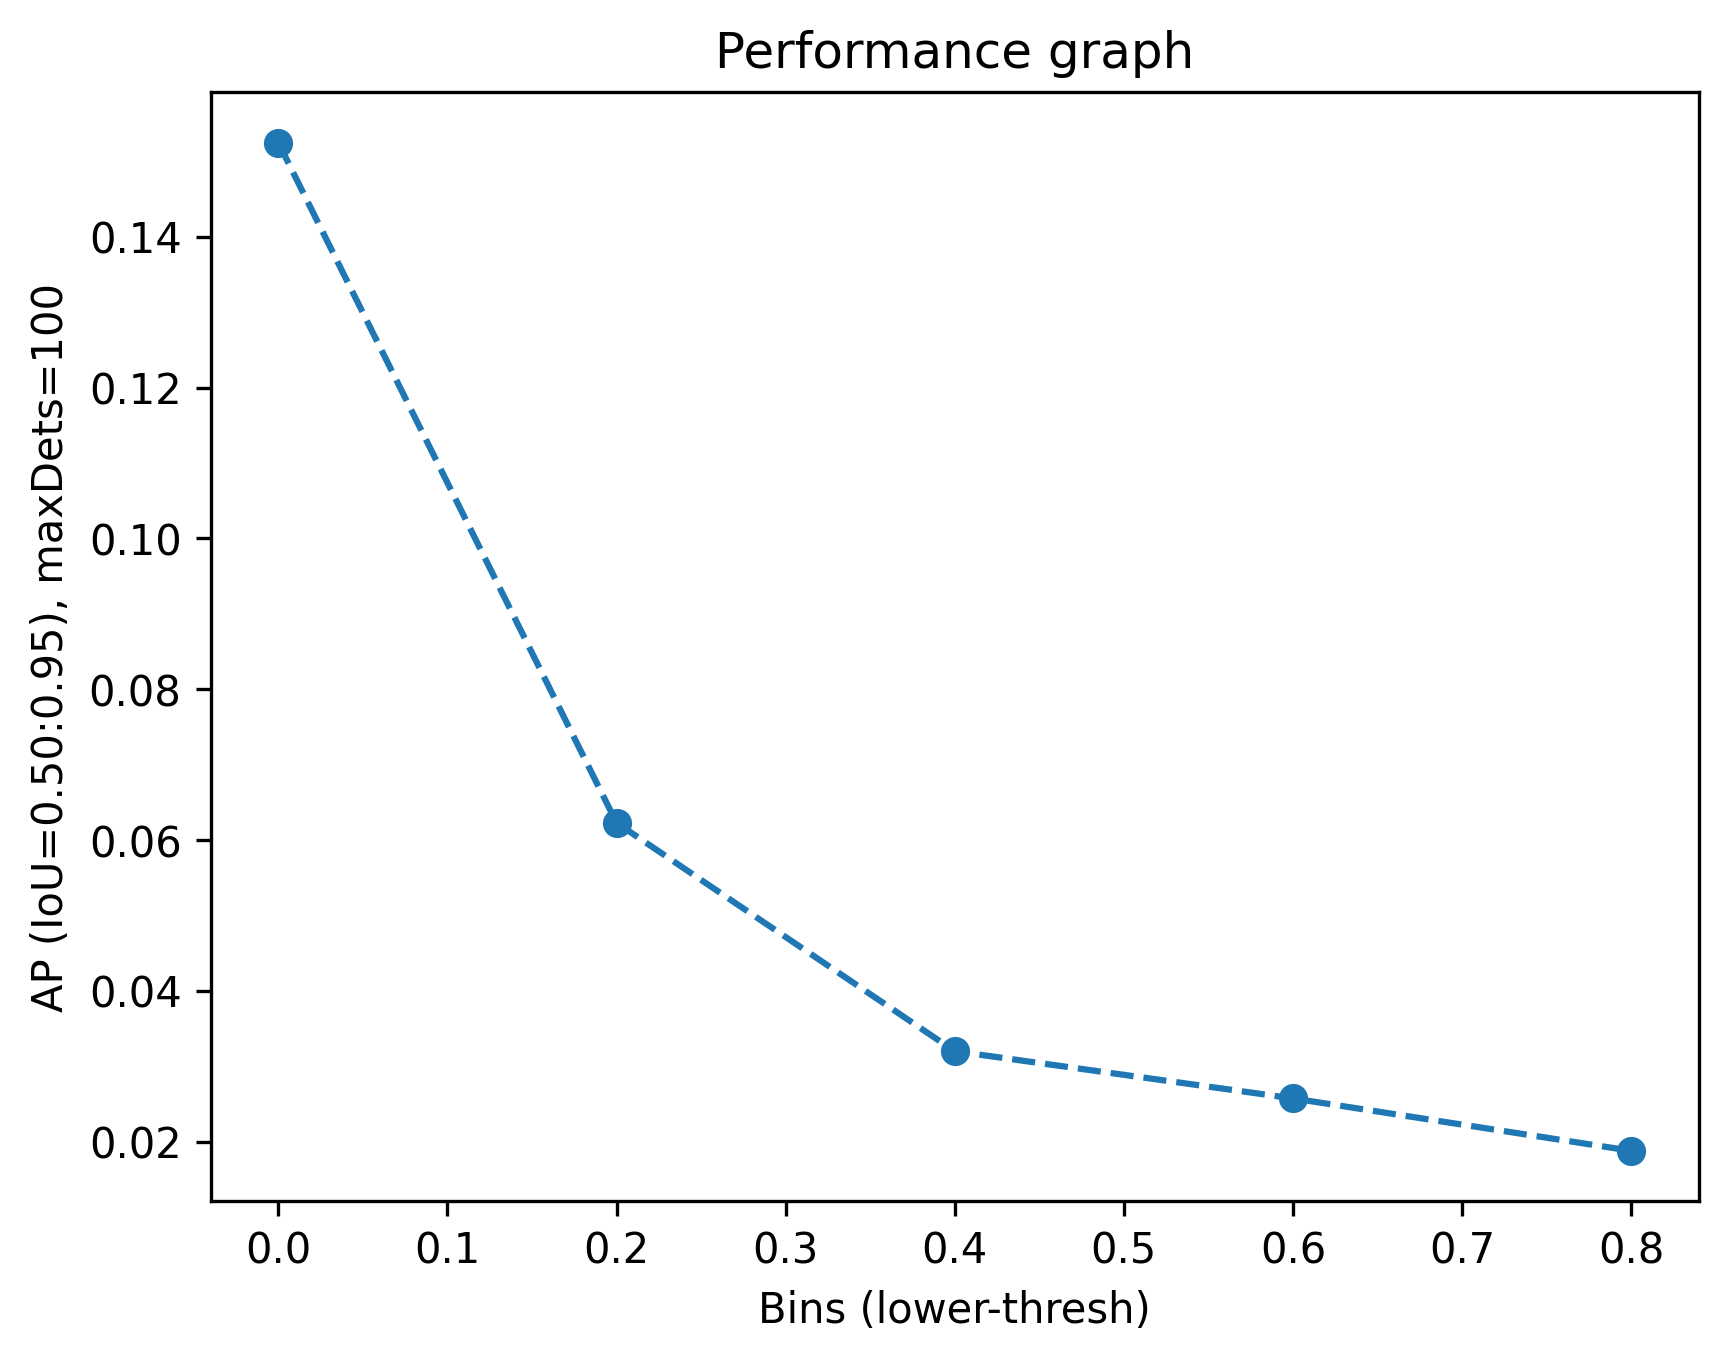
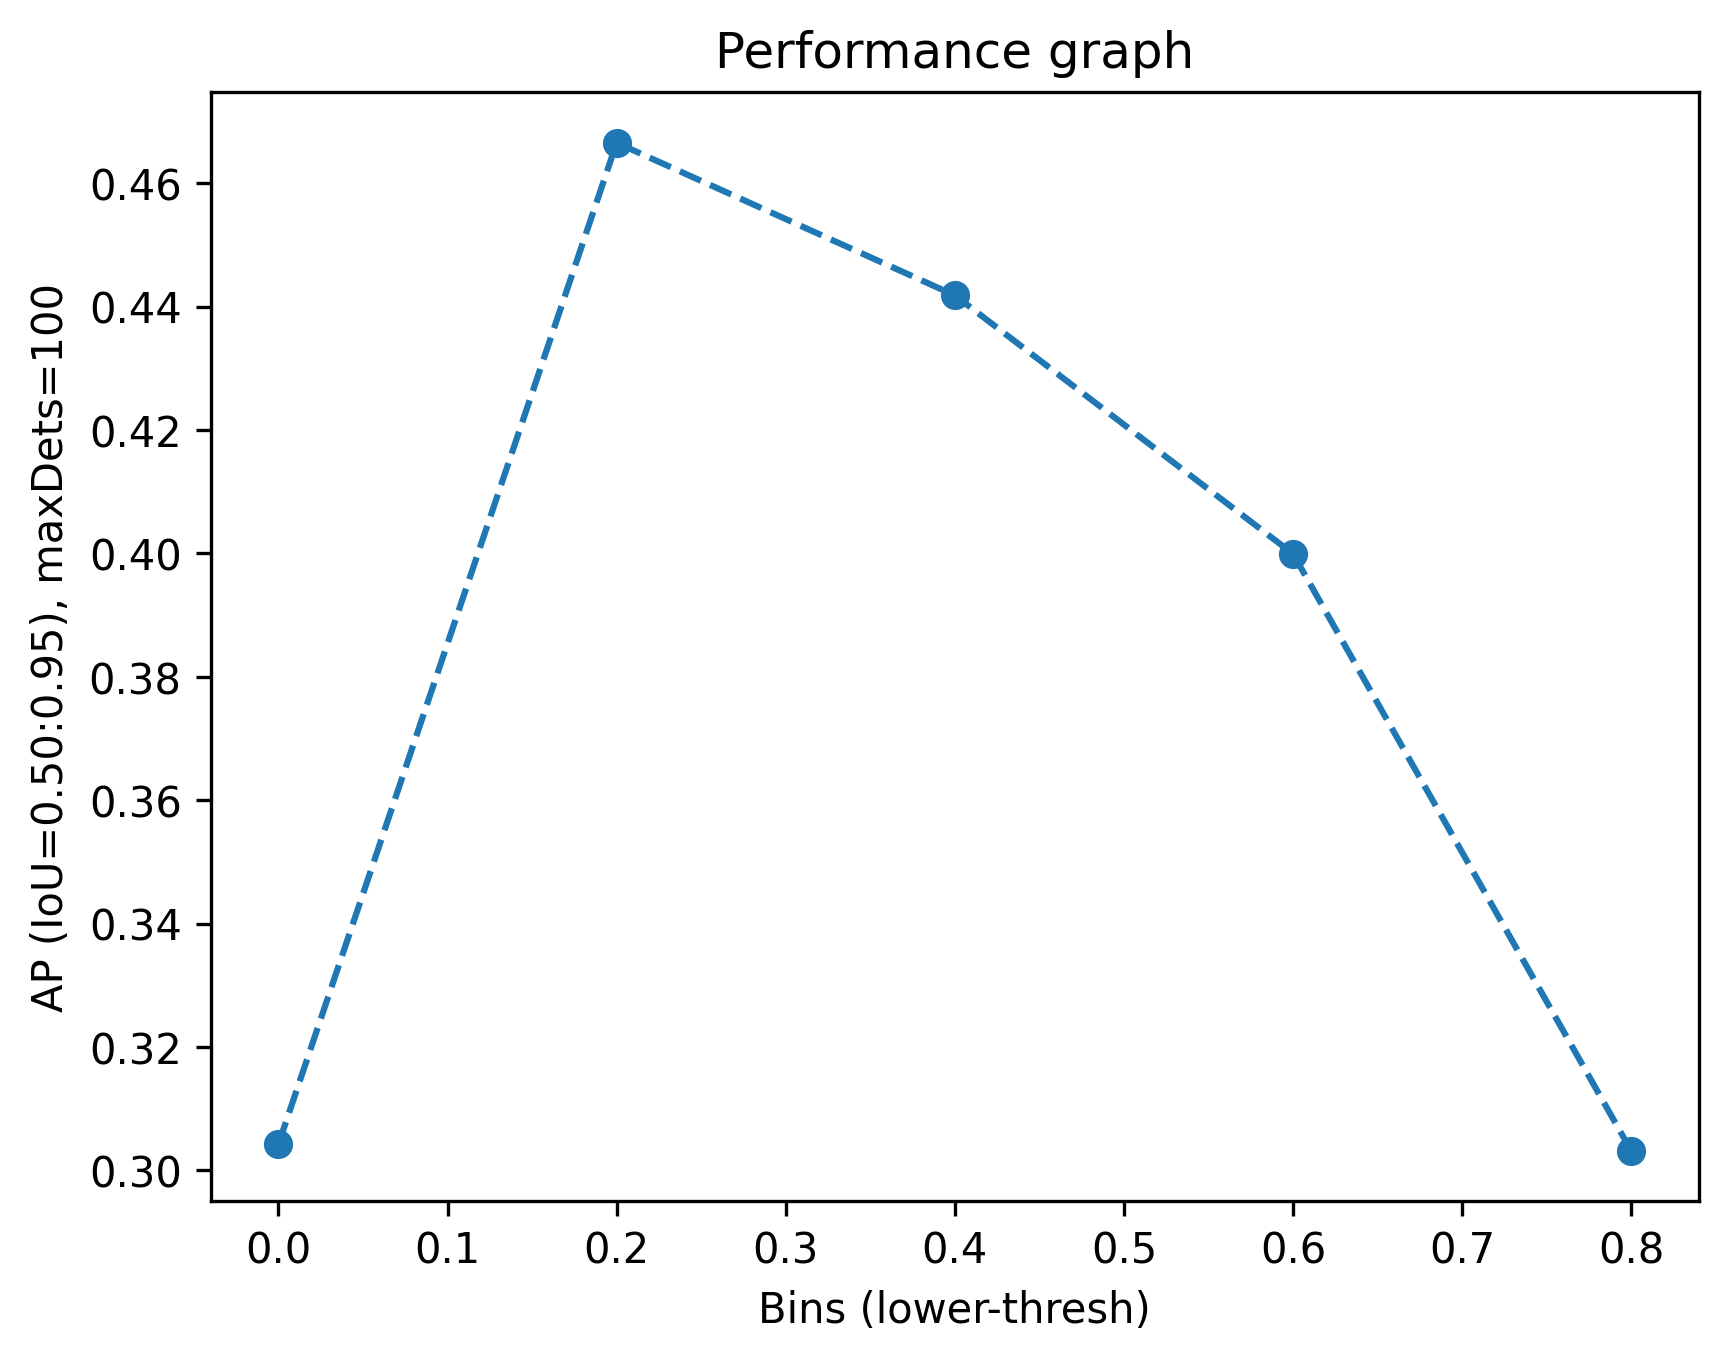
Working annotation normalization eval

diff --git a/EXPERIMENTS/complete_bin_evaluation_pipeline/sequence_runner_bin_complete_paradigm.py b/EXPERIMENTS/complete_bin_evaluation_pipeline/sequence_runner_bin_complete_paradigm.py
@@ -44,6 +44,8 @@ class flowRunner:
     _GENERATED_RESULTS_FILE_NAME = "coco_results_original.json"
     _GENERATED_RESULTS_TXT_FILE_NAME = "coco_results_original.txt"
     _GENERATED_RESULTS_PTH_FILE_NAME = "coco_results_original.pth"
+    _GENERATED_RESULTS_BBOX_FILE_NAME = "bbox_original.json"
+    _GENERATED_RESULTS_SEGM_FILE_NAME = "segm_original.json"
     _GENERATED_HIGH_LVL_CSV_RESULTS_FILE_NAME = "eval_across_bins.csv"
     _GENERATED_HIGH_LVL_GRAPH_FILE_NAME = "performance_graph.png"
     #This parameter determines whether the script will filter predictions having masks with no Logit score > 0.5
@@ -59,6 +61,8 @@ class flowRunner:
     _GENERATED_SUBSAMPLE_RESULTS_FILE_NAME_TMPL = "coco_results_on_%s.json"
     _GENERATED_SUBSAMPLE_RESULTS_TXT_FILE_NAME_TMPL = "coco_results_on_%s.txt"
     _GENERATED_SUBSAMPLE_RESULTS_PTH_FILE_NAME_TMPL = "coco_results_on_%s.pth"
+    _GENERATED_SUBSAMPLE_RESULTS_BBOX_FILE_NAME_TMPL = "bbox_on_%s.json"
+    _GENERATED_SUBSAMPLE_RESULTS_SEGM_FILE_NAME_TMPL = "segm_on_%s.json"
     _GENERATED_SUBSAMPLE_HIGH_LVL_CSV_RESULTS_FILE_NAME_TMPL = "eval_across_bins_on_%s.csv"
     _GENERATED_SUBSAMPLE_HIGH_LVL_GRAPH_FILE_NAME_TMPL = "performance_graph_on_%s.png"
 
@@ -323,7 +327,9 @@ class flowRunner:
                 #so that we see the AR metric
                 tester_obj.test_model()
                 tester_obj.write_results_to_disk()
-                tester_obj.change_pth_filename("coco_results.pth", flowRunner._GENERATED_RESULTS_PTH_FILE_NAME)
+                tester_obj.change_result_filename("coco_results.pth", flowRunner._GENERATED_RESULTS_PTH_FILE_NAME)
+                tester_obj.change_result_filename("bbox.json", flowRunner._GENERATED_RESULTS_BBOX_FILE_NAME)
+                tester_obj.change_result_filename("segm.json", flowRunner._GENERATED_RESULTS_SEGM_FILE_NAME)
             else: logging.info("Evaluation file exists. Moving to next bin (if any) -->>")
             #--------------------
             #-----------------
@@ -363,6 +369,10 @@ class flowRunner:
                 _GENERATED_SUBSAMPLE_RESULTS_TXT_FILE_NAME_TMPL % str(self.misk_ann_subsample_size)
             misk_results_pth_filename = flowRunner. \
                 _GENERATED_SUBSAMPLE_RESULTS_PTH_FILE_NAME_TMPL % str(self.misk_ann_subsample_size)
+            misk_results_bbox_filename = flowRunner. \
+                _GENERATED_SUBSAMPLE_RESULTS_BBOX_FILE_NAME_TMPL % str(self.misk_ann_subsample_size)
+            misk_results_segm_filename = flowRunner. \
+                _GENERATED_SUBSAMPLE_RESULTS_SEGM_FILE_NAME_TMPL % str(self.misk_ann_subsample_size)
             misk_csv_filename = flowRunner. \
                 _GENERATED_SUBSAMPLE_HIGH_LVL_CSV_RESULTS_FILE_NAME_TMPL % str(self.misk_ann_subsample_size)
             misk_graph_photo_filename = flowRunner. \
@@ -400,7 +410,9 @@ class flowRunner:
                     # so that we see the AR metric
                     tester_obj.test_model()
                     tester_obj.write_results_to_disk()
-                    tester_obj.change_pth_filename("coco_results.pth", misk_results_pth_filename)
+                    tester_obj.change_result_filename("coco_results.pth", misk_results_pth_filename)
+                    tester_obj.change_result_filename("bbox.json", misk_results_bbox_filename)
+                    tester_obj.change_result_filename("segm.json", misk_results_segm_filename)
                 else:
                     logging.info("Misk evaluation file exists. Moving to next bin (if any) -->>")
 
@@ -419,7 +431,7 @@ class flowRunner:
             writer = csv.writer(csv_file)
 
             # Write the header row to the CSV file
-            writer.writerow(["lower_bin_thresh", "upper_bin_thresh", "bin_prefix", "AP"])
+            writer.writerow(["lower_bin_thresh", "upper_bin_thresh", "bin_prefix", "AR"])
             for folder in self.evaluation_folders:
                 folder_name = os.path.basename(os.path.normpath(folder))
                 #Extract the bin from the folder name
@@ -432,7 +444,7 @@ class flowRunner:
                 try:
                     with open(potential_eval_storage_file) as json_results_file:
                         json_data = json.load(json_results_file)
-                    avg_precision = json_data["bbox"]["AP"]
+                    avg_precision = json_data["bbox"]["AR"]
                     to_store_in_csv = [str(lower_threshold), str(upper_threshold),
                                        str(lower_threshold)+"-"+str(upper_threshold),
                                        avg_precision]

diff --git a/EXPERIMENTS/complete_bin_evaluation_pipeline/objects/tester_obj.py b/EXPERIMENTS/complete_bin_evaluation_pipeline/objects/tester_obj.py
@@ -124,8 +124,8 @@ class testerObj:
             self.results.append(result)
         if is_main_process():
             map_results, raw_results = self.results[0]
-            bbox_map = map_results.results["bbox"]['AP']
-            segm_map = map_results.results["segm"]['AP']
+            bbox_map = map_results.results["bbox"]['AR']
+            segm_map = map_results.results["segm"]['AR']
             dllogger.log(step=(cfg.SOLVER.MAX_ITER, cfg.SOLVER.MAX_ITER / iters_per_epoch,),
                          data={"BBOX_mAP": bbox_map, "MASK_mAP": segm_map})
             dllogger.log(step=tuple(), data={"BBOX_mAP": bbox_map, "MASK_mAP": segm_map})
@@ -137,7 +137,7 @@ class testerObj:
         self.utils_helper.write_data_to_json(_results_to_store_file_path, self.results[0][0].results)
         # ----------------------
 
-    def change_pth_filename(self, original_name, name_to_change_to):
+    def change_result_filename(self, original_name, name_to_change_to):
         # This function is used to change the name of the auto-generated coco predictions .pth file
         # The reason is that otherwise there may be conflict when a new .pth file is generated during the
         # annotations nomalization

diff --git a/maskrcnn_benchmark/data/datasets/evaluation/coco/coco_eval.py b/maskrcnn_benchmark/data/datasets/evaluation/coco/coco_eval.py
@@ -295,9 +295,13 @@ def evaluate_predictions_on_coco(
 
 
 class COCOResults(object):
+    #Note: E.g. AR@1 = Average Precision, maxDets=1, Area=all
+    #AR_ = Average Precision, maxDets=100, Area=_
     METRICS = {
-        "bbox": ["AP", "AP50", "AP75", "APs", "APm", "APl"],
-        "segm": ["AP", "AP50", "AP75", "APs", "APm", "APl"],
+        "bbox": ["AP", "AP50", "AP75", "APs", "APm", "APl",
+                 "AR@1", "AR@10", "AR", "ARs", "ARm", "ARl"],
+        "segm": ["AP", "AP50", "AP75", "APs", "APm", "APl",
+                 "AR@1", "AR@10", "AR", "ARs", "ARm", "ARl"],
         "box_proposal": [
             "AR@100",
             "ARs@100",
